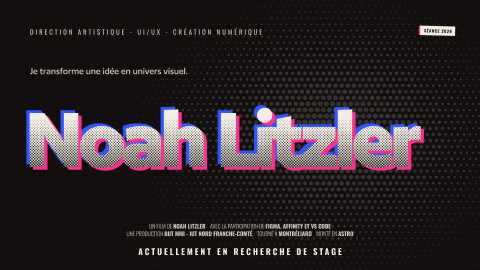
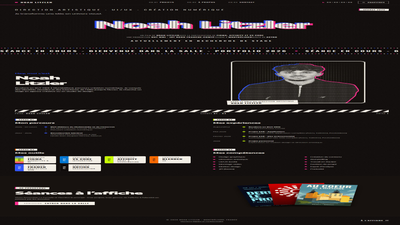
qualite : controles, declaration IA et guide de relecture

diff --git a/QUALITE.md b/QUALITE.md
@@ -1,9 +1,43 @@
-# QUALITE
+# Contrôles qualité du portfolio
+
+Contrôle local du 7 novembre 2026. Le site n’a pas été publié. Cette grille distingue les vérifications faites et les étapes restant à confirmer.
 
 ## Accessibilité
 
+| Critère propre au site | Méthode | Résultat / correction |
+| --- | --- | --- |
+| Un titre principal et une langue explicite | Analyse du HTML compilé | Un h1 et lang=fr sur les 10 pages de contenu contrôlées |
+| Images des études de cas | Vérification des références locales et attributs alt ; inspection navigateur | 28 balises image avec alternative, décorations avec alt vide ; aucun fichier référencé absent |
+| Menu Chapitres au clavier | Ouverture navigateur, observation du focus, Échap | Dialogue natif, focus initial sur Retour au film, fermeture et retour au bouton déclencheur vérifiés |
+| Navigation sur petit écran | Navigateur à 390 px et grand écran à 1728 px | Les sept pages principales ne débordent pas horizontalement ; contrôle supplémentaire à 320 px et correction des affiches de l’accueil |
+| Champs de contact | Inspection HTML | Labels, nom et email obligatoires, type email, fieldset/legend pour les radios, autocomplete ; validation native à contrôler avec le lecteur d’écran de Noah |
+| Mouvements | Relecture CSS | Bandeau désactivé par prefers-reduced-motion, transitions réduites ; pas de bibliothèque d’animation ajoutée |
+| Contrastes et lecteur d’écran | À compléter | Relevé systématique des contrastes et test NVDA/VoiceOver non réalisés ; aucune certification RGAA revendiquée |
+
 ## Sobriété et performance
 
-## SEO
+- Images de projets servies en WebP avec srcset et sizes via Astro Image ; exports sources conservés localement.
+- Polices auto-hébergées ; sous-ensembles latin existants conservés. Pas de Google Fonts, de widget social ni d’iframe du site tiers.
+- Retrait des exports Figma publics inutilisés ; vignettes du menu réduites à 400 × 225 px.
+- JavaScript limité au menu natif ; les données de projets sont transformées en HTML au build.
+- Le poids total de dist inclut toutes les pages, le CV et plusieurs tailles d’images : il ne représente pas le transfert initial d’une visite. Mesure finale dans le rapport de vérification.
+- Lighthouse/PageSpeed et mesures réseau sur le domaine final restent à faire après validation et déploiement. Aucun score inventé.
 
-## Juridique
+## Référencement
+
+- Titres et descriptions propres aux pages, HTML français et contenu sémantique : vérifiés dans le build.
+- Métadonnées Open Graph ajoutées ; pages Merci, 404 et mentions encore provisoires en noindex.
+- robots.txt et sitemap.xml générés. PORTFOLIO_SITE doit contenir l’URL définitive du portfolio au build pour générer les URL absolues, canoniques et entrées du sitemap. Sans domaine, le sitemap reste volontairement vide.
+- Ancienne route /projets/sull redirigée vers /projets/derriere-le-prompt.
+- Vérification des destinations locales : 189 références href/src contrôlées sans absence sur le build initial de contrôle. Les liens de réseaux sociaux doivent encore être confirmés par Noah.
+
+## Juridique et données
+
+- Page de crédits et confidentialité reliée depuis le footer et le formulaire ; c’est un brouillon local, pas une déclaration de conformité complète.
+- Les travaux pédagogiques et la refonte non officielle de La Cimade sont identifiés. Les photos IA de ses bannières sont déclarées.
+- Les conditions de reproduction des affiches Miami Vice et Spider-Man, les licences typographiques et la titularité des médias doivent être validées avant publication.
+- Le code ne contient ni publicité, ni mesure d’audience, ni stockage de suivi du visiteur. Les polices et médias sont locaux. Le comportement de l’hébergeur sera à vérifier sur le site publié.
+- Formulaire statique préparé pour Netlify Forms : nom du formulaire, champ caché form-name, honeypot et route de remerciement présents. La détection du formulaire et les notifications doivent être activées chez l’hébergeur. Aucun envoi réel n’a été effectué.
+- À renseigner avec Noah avant ouverture au public : hébergeur et coordonnées légales, identification de l’éditeur selon son statut, destinataires et conservation des messages, fondement du traitement et éventuels transferts.
+
+Sources consultées : [configuration Netlify Forms](https://docs.netlify.com/manage/forms/setup/), [notifications Netlify](https://docs.netlify.com/manage/forms/notifications/), [information des personnes - CNIL](https://www.cnil.fr/fr/exemples-de-formulaire-de-collecte-de-donnees-caractere-personnel).

diff --git a/README.md b/README.md
@@ -8,8 +8,8 @@ Concept : le portfolio est un film. L'accueil est une affiche, chaque projet est
 ## Projets présentés
 
 1. Vivez l'essentiel - affiches tourisme pour le Pays de Montbéliard (production graphique)
-2. Sull - plateforme VOD pour cinéphiles, projet en binôme (UX/UI)
-3. La Cimade - refonte du logo (branding)
+2. La Cimade - refonte du logo (branding)
+3. Derrière le prompt - datavisualisation interactive sur l’impact de l’IA, avec Clément Bertrand
 
 ## Stack
 
@@ -17,7 +17,7 @@ Concept : le portfolio est un film. L'accueil est une affiche, chaque projet est
 - CSS natif + variables CSS
 - JavaScript natif pour les interactions (menu, timecode au scroll)
 - Bun - gestionnaire de paquets et scripts
-- Hébergement : à venir
+- Hébergement du portfolio : configuration existante à confirmer, aucune publication pendant cette intégration
 
 Polices : Author (Fontshare), Oswald, Caveat, Courier Prime, auto-hébergées.
 
@@ -36,3 +36,24 @@ bun run build
 - QUALITE.md - grille de contrôle qualité (à venir)
 
 Maquette : https://www.figma.com/design/jAvCe2R0eTMmsTBlGz5A2E/PORTFOLIO---NOAH-LITZLER
+
+## Comprendre le code avant la soutenance
+
+- src/data/projets.js contient les trois études de cas. Un objet rassemble le titre, les crédits, les médias et les sections : modifier cet objet met à jour liste et fiche.
+- src/pages/projets/[slug].astro utilise getStaticPaths pour générer une page HTML par projet au build. Il n’y a pas de base de données ni de back-office.
+- Affiche.astro compose les trois affiches ; Visuel.astro passe les exports à Astro Image pour produire les formats et tailles adaptés.
+- Entete.astro utilise un dialog HTML natif. showModal ouvre le menu ; close le ferme ; le navigateur assure le confinement du focus et Échap. Le script rend le focus au bouton à la fermeture.
+- Les grilles CSS organisent les colonnes ; les media queries réorganisent le storyboard et le menu sur mobile. Les variables de tokens.css portent la palette, les polices et les gouttières.
+- Le formulaire utilise les contraintes HTML (required et type=email) et Netlify Forms. Le traitement et les notifications doivent être vérifiés dans Netlify après autorisation de publication.
+- Le niveau technique reste celui d’Astro statique avec composants et interactions ciblées. Aucune revendication de contenu dynamique relié à une base de données.
+
+## Avant publication
+
+1. Relire le code et les contenus ; préciser le rôle individuel dans le binôme SAÉ 303.
+2. Finaliser les mentions et les droits des médias, puis retirer leur statut provisoire.
+3. Configurer PORTFOLIO_SITE avec le domaine réel (https://…). Recompiler et vérifier le sitemap.
+4. Valider les profils LinkedIn/Instagram et actualiser leur contenu personnellement.
+5. Autoriser explicitement le push et le déploiement, puis tester réception du formulaire, HTTPS et nom de domaine.
+6. Compléter les mesures de QUALITE.md et la relecture personnelle de IA.md.
+
+Les commits du 7 novembre sont locaux. Ne pas pousser avant validation de Noah.

diff --git a/JOURNAL.md b/JOURNAL.md
@@ -67,3 +67,24 @@ Une entrée par semaine : ce que j'ai fait, ce qui a coincé, ce que j'ai décid
 * Coincé : un bloc de commandes lancé deux fois a dupliqué des données dans index.astro (erreur "parcours déjà déclaré"). Réglé avec une commande de réparation, vérifiée par le build (6 titres h2, 6 billets d'outils). Lighthouse a échoué une première fois à cause d'un argument PowerShell mal découpé, corrigé en mettant les arguments entre guillemets.
 * Décidé : prendre les 7 écrans desktop exportés de Figma comme référence unique du code.
 * Reste à faire : pages Projets et séances, À propos, mentions légales, SEO, déploiement final.
+
+## 7 novembre 2026 - séance d’intégration assistée par Codex
+
+- Sauvegarde ZIP de l’état de départ et commit local des modifications déjà présentes.
+- Conservation d’Astro, du CSS natif, des variables et des polices existantes.
+- Récupération des visuels Figma et optimisation WebP par Astro.
+- Intégration du storyboard À propos et du menu des chapitres, avec présentation mobile spécifique.
+- Présentation de trois projets : Vivez l’essentiel, La Cimade et Derrière le prompt, en troisième position.
+- Nouvelle affiche typographique pour Derrière le prompt et lien vers le projet en ligne.
+- Améliorations : navigation clavier du menu, page 404, métadonnées de partage, génération conditionnelle des URL canoniques et du sitemap.
+- Contrôles locaux consignés dans QUALITE.md. Aucun push, aucune publication.
+- Limites : domaine du portfolio non fourni ; réception Netlify non testée ; informations légales et répartition du travail en binôme à confirmer.
+- À faire par Noah : relire et comprendre le code, valider les textes et visuels, puis autoriser le push et la publication.
+
+### Présence professionnelle - proposition à valider
+
+LinkedIn sert à présenter mon profil, mon stage recherché et mes études de cas aux agences et studios.
+Instagram est adapté à mon parcours création numérique : il permet de montrer affiches, identités et recherches visuelles.
+Les deux profils sont liés depuis le contact et le menu mobile.
+Je dois harmoniser leur bio, leur portrait et leurs liens avec le portfolio, puis publier des extraits des trois projets.
+Ces mises à jour n’ont pas été effectuées par Codex ; cette justification est une proposition à relire, pas une attestation d’action.

diff --git a/IA.md b/IA.md
@@ -50,3 +50,14 @@ Pour chaque outil : à quelle étape, pour quoi faire, et ce que j'ai modifié, 
 - **Ce que j'ai modifié :** La séléction du typ d'affiche, le sens que je veux voulais donné à l'affiche ainsi que le nombre de personnes et la disposition.
 
 Règle : je dois pouvoir expliquer chaque ligne du code du site. Quand une IA m'aide sur du code, je le note ici avec le fichier concerné.
+
+## Codex / OpenAI - intégration du 7 novembre 2026
+
+- Étape : réalisation et contrôle local, à partir de la maquette Figma et du projet Astro existant.
+- Travail fourni par l’outil : récupération des exports Figma ; composant Affiche ; intégration des visuels des études de cas ; storyboard À propos ; menu de chapitres avec dialog natif et JavaScript ; adaptation mobile ; remplacement de SULL par Derrière le prompt ; métadonnées et pages annexes.
+- Fichiers concernés : src/components/Affiche.astro, Entete.astro, Visuel.astro, PiedDePage.astro ; src/data/projets.js ; src/pages/index.astro, projets.astro, projets/[slug].astro, a-propos.astro, contact.astro, 404.astro, mentions-legales.astro ; Base.astro, styles globaux et tokens ; robots.txt.ts, sitemap.xml.ts et astro.config.mjs.
+- Vérifications effectuées par l’outil : compilation Astro, liens et images locaux, titres et descriptions, rendu navigateur sur ordinateur et mobile, ouverture du menu, fermeture par Échap et retour du focus. Aucun message de formulaire envoyé.
+- Correction de l’outil après contrôle : proportions du symbole La Cimade, menu mobile, recadrage des images de making-of, débordement des affiches à 320 px, suppression des exports inutilisés.
+- Origine des nouveaux textes : maquette, code initial, site et README local de Derrière le prompt. L’outil n’a pas attribué de tâches individuelles détaillées dans le binôme faute de preuve.
+- À relire par Noah : chaque changement de code et de texte ; répartition exacte du travail sur la SAÉ 303 ; politique des données et informations légales. La relecture personnelle n’a pas encore eu lieu : cette entrée ne prétend pas le contraire.
+- À compléter par Noah après relecture : ce que j’ai compris, modifié, corrigé ou rejeté parmi les propositions de Codex.
